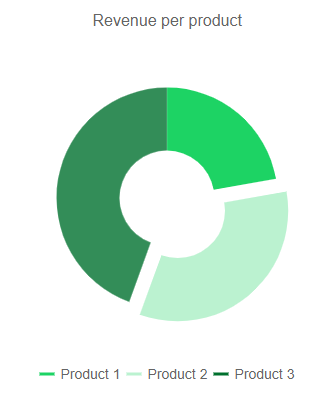
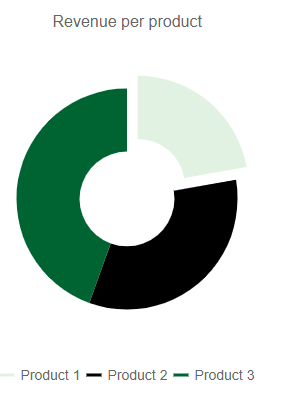
chore(kb): chart mark series minor updates

diff --git a/knowledge-base/chart-mark-series-on-click.md b/knowledge-base/chart-mark-series-on-click.md
@@ -12,24 +12,23 @@ res_type: kb
 
 ## Description
 
-I would like to mark a Chart Series [on click]({%slug chart-events%}#onseriesclick) by changing the color and opacity or to separate the clicked series from the rest.
+I would like to mark a Chart Series [on click]({%slug chart-events%}#onseriesclick) by changing the color and opacity or to separate the clicked item from the rest.
 
 
 ## Solution
 
-You can use the `ColorField` and the `ExplodeField` to visually distinguish the clicked series of the chart. In the handler for the `OnSeriesClick` event you should handle the color change and the toggling of the exploded field.
+You can use the `ColorField` and the `ExplodeField` (for pie-type charts) to visually distinguish the clicked series of the chart. In the handler for the `OnSeriesClick` event you should handle the color change and the toggling of the exploded field.
 
 >caption Mark a Chart Series On Click
 
 ````CSHTML
-
 @* Visually distinguish a clicked chart series *@
 
 @using System.Text.RegularExpressions;
 
 <TelerikChart OnSeriesClick="@OnSeriesClickHandler" Transitions="false">
     <ChartSeriesItems>
-        <ChartSeries Type="ChartSeriesType.Donut"
+        <ChartSeries Type="@ChartSeriesType.Donut"
                      Data="@donutData"
                      Field="@nameof(MyDonutChartModel.SegmentValue)"
                      CategoryField="@nameof(MyDonutChartModel.SegmentName)"
@@ -40,7 +39,7 @@ You can use the `ColorField` and the `ExplodeField` to visually distinguish the 
 
     <ChartTitle Text="Revenue per product"></ChartTitle>
 
-    <ChartLegend Position="ChartLegendPosition.Bottom">
+    <ChartLegend Position="@ChartLegendPosition.Bottom">
     </ChartLegend>
 </TelerikChart>
 
@@ -80,7 +79,7 @@ You can use the `ColorField` and the `ExplodeField` to visually distinguish the 
             SegmentName = "Product 1",
             SegmentValue = 2,
             isExploadedField = true,
-            RGBAColor = $"rgba(104, 192, 108)"
+            RGBAColor = $"rgba(104, 192, 108, 0.2)" // has initial opacity because it is already exploded (marked, separated)
         },
         new MyDonutChartModel
         {
